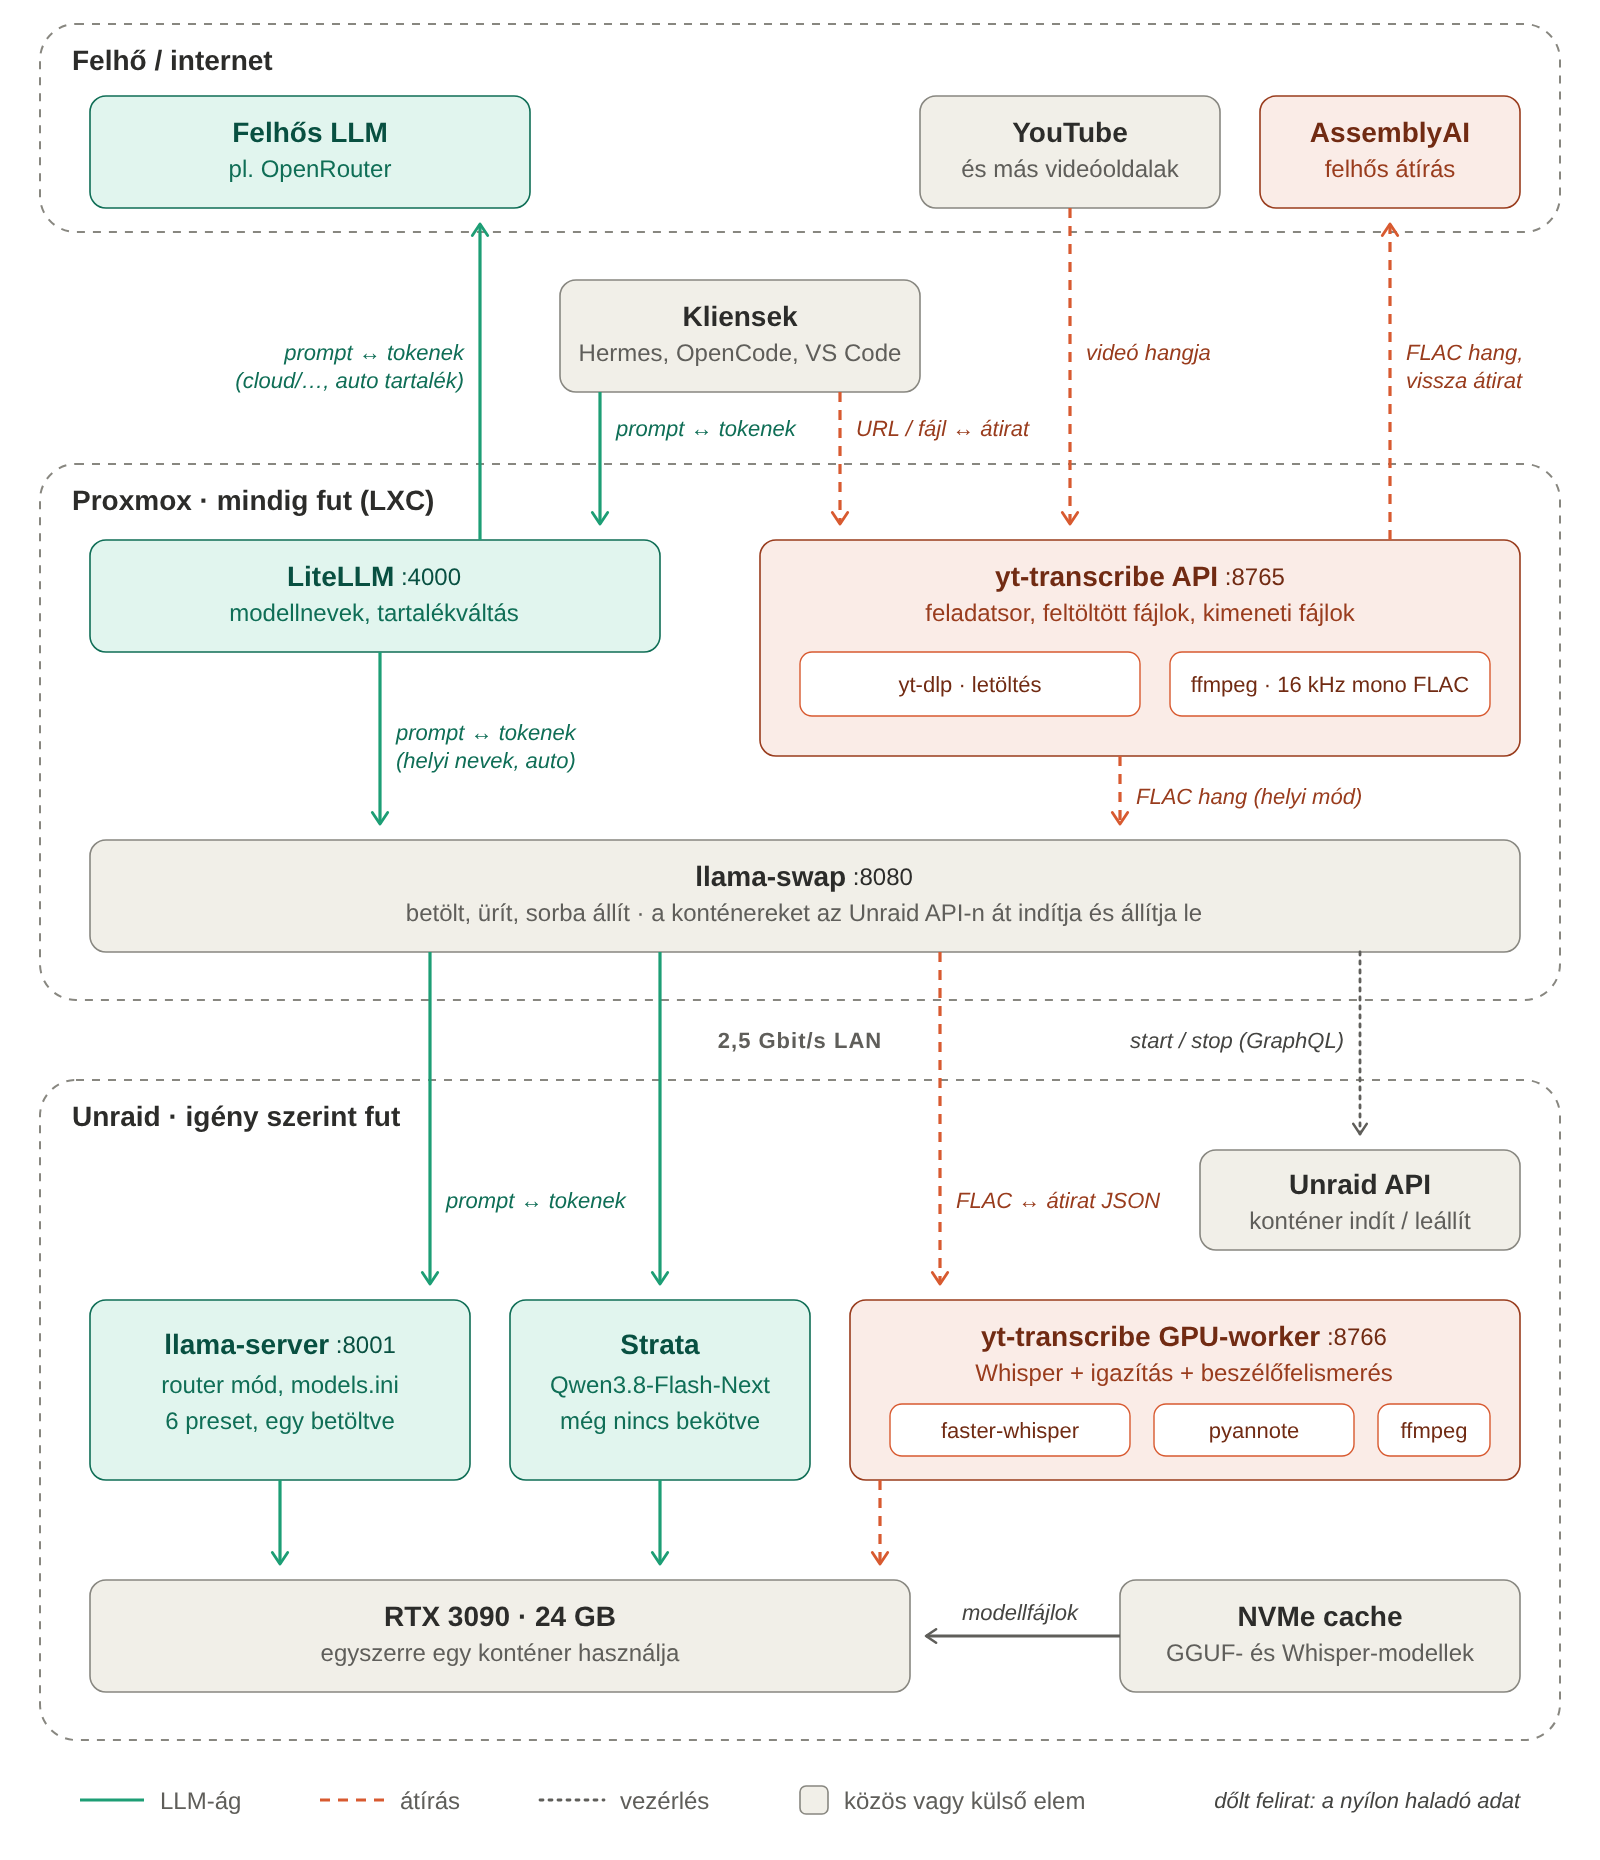
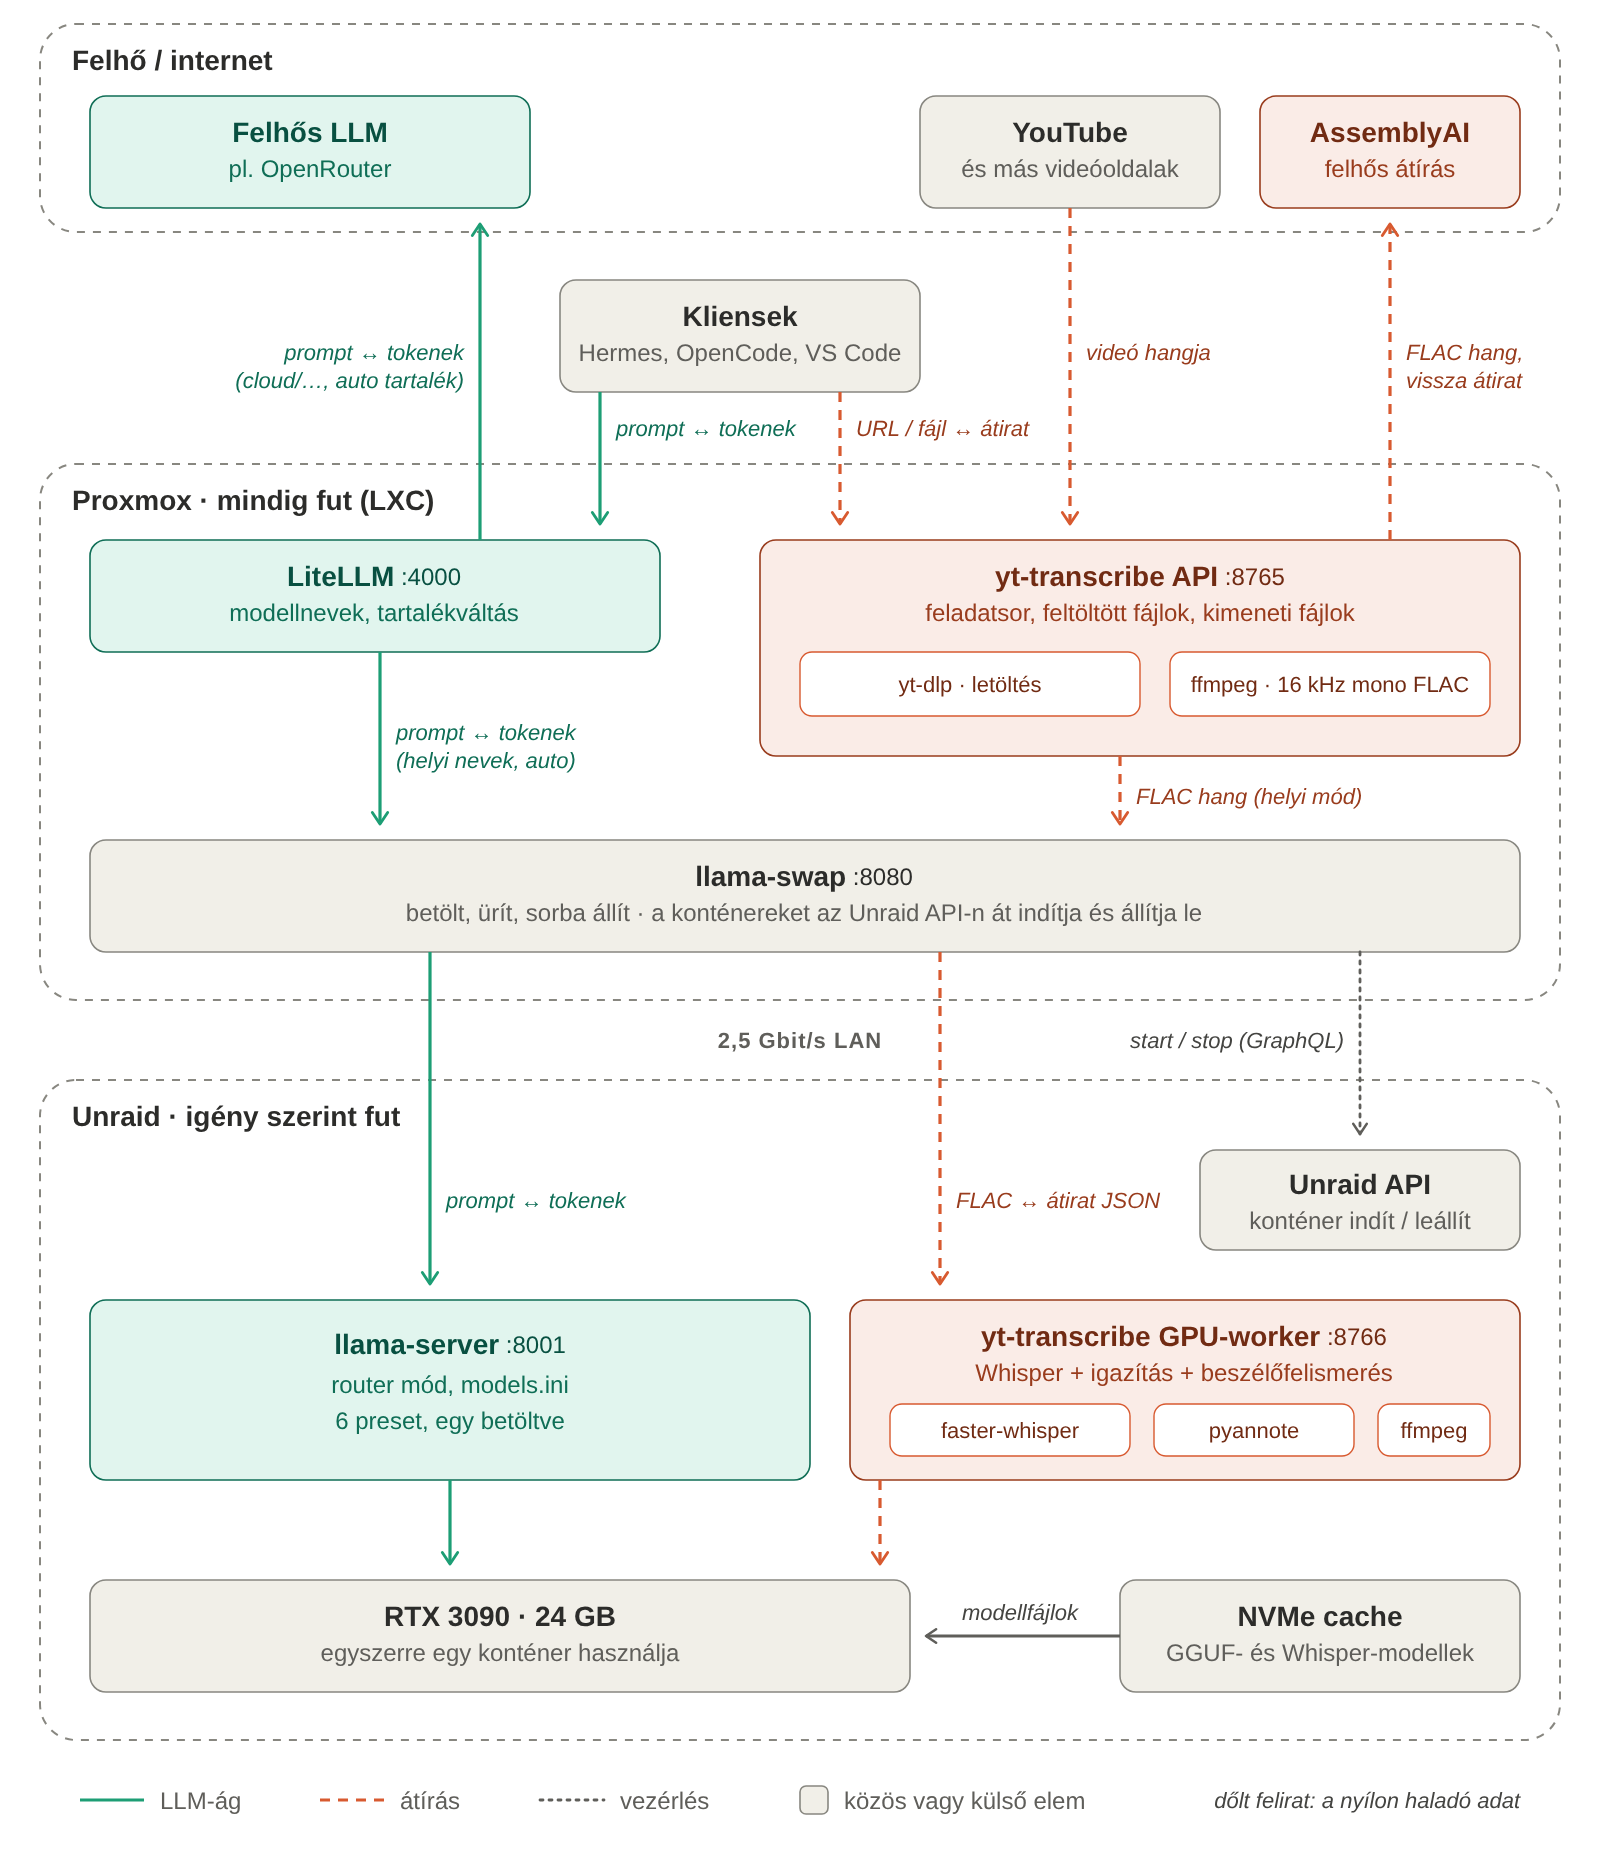
Drop Strata from the architecture; document adding GPU containers
Strata was tried on Unraid and left out: it loads for about 4 minutes on
every start (llama-swap restarts it on each model swap) and scored no
better than Qwen3.6-35B-A3B in the owner's benchmark.

- Diagram: Strata box and arrows removed (SVG and PNG re-rendered).
- architektura.md: component row removed, reasons recorded.
- frissites.md: new section on putting any GPU container under
  llama-swap, including the timeouts that matter for slow starters.
- Config comments and CLAUDE.md no longer mention Strata as planned.

Claude-Session: https://claude.ai/code/session_017pkEDZAixn3ocCLi8rQrXh

Changed region(s): [[0.0938, 0.686, 0.4688, 0.8108], [0.4062, 0.8108, 0.4375, 0.8419], [0.1562, 0.8108, 0.1875, 0.8419]]

diff --git a/docs/architektura.md b/docs/architektura.md
@@ -31,7 +31,6 @@ Kapcsolódó leírások: [telepítés](telepites.md) · [frissítés](frissites.
 | YouTube és más oldalak | Internet | – | A videók forrása; a yt-dlp innen tölti le a hangot. | Külső |
 | Unraid API | Unraid | 80 (`/graphql`) | Konténerek indítása és leállítása, csak Docker-jogú API-kulccsal. | Kész |
 | llama-server | Unraid, `llama.cpp` konténer | 8001 | Hivatalos llama.cpp image router módban. A 6 preset a `models.ini`-ben van, egyszerre egy töltődik be (`--models-max 1`). | Kész |
-| Strata | Unraid, konténer | – | Qwen3.8-Flash-Next. | Még nincs bekötve |
 | yt-transcribe GPU-worker | Unraid, `yt-transcribe-gpu` konténer | 8766 | Átírás (faster-whisper), igazítás (wav2vec2), beszélők (pyannote). Minden feladat külön folyamatban fut, a végén a VRAM felszabadul. | Kész |
 | RTX 3090, NVMe | Unraid | – | A GPU-t egyszerre egy konténer használja. A modellfájlok a helyi NVMe-n vannak, nem a hálózaton. | Meglévő |
 
@@ -140,8 +139,23 @@ A válaszidőt a modellváltás határozza meg (konténerindítás és betölté
   - A Hermes egy terminálhívása legfeljebb 600 másodpercet várhat.
 - **Tartalékváltás ára.** Az `auto` átváltáskor a teljes beszélgetést a felhőbe küldi: ez pénzbe kerül, és az adat kikerül a hálózatból.
 
+## Kipróbált, de kimaradt: Strata
+
+A Strata (Qwen3.8-Flash-Next) telepítve volt az Unraidon, de nem került a llama-swap alá:
+- **Lassú indulás.** Indításkor kb. 3,5–4 percig tölt. A llama-swap minden modellváltáskor újraindítja a konténereket, így minden váltás ennyi várakozást jelentene, az átírás utáni visszaváltás is.
+- **Nem jobb a meglévőknél.** A saját méréseink szerint (tool-eval-bench):
+
+  | Modell | Eredmény | Futási idő |
+  | --- | --- | --- |
+  | Qwen3.8-27B | 96,1% | 16 perc |
+  | Strata | 90,6% | 12 perc |
+  | Qwen3.6-35B-A3B gondolkodás nélkül | 89,8% | 2,4 perc |
+
+  A Qwen3.6-35B-A3B tehát ugyanazt az eredményt adja, és néhány másodperc alatt betölt. Sok rövid kérésnél a Strata lassabb is volt, mint a llama.cpp.
+
+Ha később mégis kellene, ugyanúgy köthető be, mint bármely más GPU-s konténer; a lassú indulás beállításai a [frissítési leírásban](frissites.md#új-gpu-s-konténer-bekötése) vannak.
+
 ## Ami még hátravan
 
-- A Strata bekötése a llama-swap alá. Ehhez kell egy Unraid-konténer, fix porttal és automatikus indítás nélkül, utána ugyanúgy, mint a llama-server.
 - Az OpenCode és a VS Code átállítása a LiteLLM-re. Az OpenCode beállítófájlja kész: `deploy/clients/opencode.json`.
 - A felhős átírás éles próbája AssemblyAI-kulccsal, magyar és angol videóval.

diff --git a/docs/frissites.md b/docs/frissites.md
@@ -72,6 +72,29 @@ Végül a repóban is frissítsd a `deploy/` fájlokat, hogy a következő telep
 
 **Ellenőrzés:** `curl localhost:4000/v1/models -H "Authorization: Bearer $K"` kilistázza az új nevet, és egy kérés rá választ ad.
 
+## Új GPU-s konténer bekötése
+
+Bármilyen új program, ami a GPU-t használja (másik LLM-motor, képgenerátor), ugyanúgy kerül a llama-swap alá, mint a llama-server és a GPU-worker. Ha kimarad, a llama-swap nem tud róla, és két program foglalhatja egyszerre a VRAM-ot.
+
+1. **Unraid:** a konténer kapjon fix portot, és az automatikus indítása legyen kikapcsolva. Legyen egy címe, ami csak akkor ad 200-as választ, ha a program már kész kéréseket fogadni (llama.cpp-nél ez a `/health`).
+2. **`/etc/llama-swap/unraid.env`:** a konténer nevét vedd fel a `GPU_CONTAINERS` listába. Az indítóscript így leállítja, mielőtt mást indít.
+3. **`/etc/llama-swap/config.yaml`:** új bejegyzés a `models:` alá, a meglévők mintájára:
+   ```yaml
+   uj-motor:
+     cmd: /opt/llama-swap/unraid-container.sh run KONTÉNERNÉV
+     cmdStop: /opt/llama-swap/unraid-container.sh stop KONTÉNERNÉV ${PID}
+     proxy: http://192.168.1.20:PORT
+     checkEndpoint: /health
+     aliases: [a kliensek által használt modellnevek]
+   ```
+4. **LiteLLM:** a modellneveket vedd fel a `model_list`-be (lásd az előző pontot), és indítsd újra.
+
+**Lassan induló programnál** (percekig tölt) ezekre figyelj:
+- A llama-swap `healthCheckTimeout` értéke (a `config.yaml` elején, most 180 másodperc) közös minden bejegyzésre. Legyen nagyobb, mint a leglassabb indulás, különben a llama-swap hibának veszi.
+- A LiteLLM a helyi modelleknél 600 másodpercig vár az első tokenre (`stream_timeout`). Ebbe a modellváltás teljes ideje is beleszámít, a futó kérések kivárásával együtt.
+- A kliensnek is ki kell várnia: egy 4 perces indulásnál sok kliens alapértelmezett időkorlátja lejár.
+- Minden modellváltás újra kifizeti az indulási időt, az átírás utáni visszaváltás is. A Strata ezért maradt ki: 3,5–4 percig indult (lásd az [architektúra-leírást](architektura.md#kipróbált-de-kimaradt-strata)).
+
 ## llama-swap (ai-router LXC)
 
 1. Töltsd le az új verziót egy ideiglenes helyre, és ellenőrizd vele a mostani konfigurációt:

diff --git a/CLAUDE.md b/CLAUDE.md
@@ -33,7 +33,7 @@ and the matching `deploy/` file in the same change. Keep the diagram in sync (ed
 
 llama-swap (on the same Proxmox LXC) owns the GPU queue. It starts/stops Unraid containers
 through the Unraid GraphQL API (`deploy/llama-swap/unraid-container.sh`), one at a time:
-the llama.cpp router container, the GPU worker, later Strata. A local job is ONE streamed
+the llama.cpp router container and the GPU worker. A local job is ONE streamed
 HTTP request `POST WORKER_URL/transcribe` (WORKER_URL = `http://127.0.0.1:8080/upstream/yt-transcribe-gpu`).
 While it is open, llama-swap keeps the GPU for the worker and queues LLM requests; the next
 LLM request stops the worker and restarts llama-server. Verified with the real llama-swap
@@ -75,6 +75,8 @@ Consequences — keep them:
   Unraid, started on demand by llama-swap via the Unraid API (no Docker socket).
 - llama.cpp runs as ONE router-mode container with the owner's `models.ini` (6 presets); llama-swap
   has one entry for it with every preset name as an alias (the request's model name passes through).
+- Strata (Qwen3.8-Flash-Next) was tried and dropped: ~4 min load per start (every swap restarts it)
+  and it scored no better than Qwen3.6-35B-A3B in the owner's benchmark. Not in the diagram or configs.
 - LiteLLM stays because of error-based fallback (`auto` → cloud when Unraid is off); llama-swap's
   selectors choose before sending and never retry (checked in v262 source). Without `auto` it could go.
 
@@ -95,7 +97,7 @@ Consequences — keep them:
 - Verified on the real servers (2026-10-09, owner): llama-swap + Unraid API script, LiteLLM incl.
   cloud fallback, Hermes through LiteLLM, the split API/worker in local mode.
 - Not yet verified for real: the whole cloud transcription mode (real AssemblyAI not yet called),
-  uploads, budget; Strata (not connected yet); OpenCode/VS Code through LiteLLM. Treat behaviour of the real
+  uploads, budget; OpenCode/VS Code through LiteLLM. Treat behaviour of the real
   AssemblyAI API (Hungarian accuracy, diarization for Hungarian) as unknown until tested.
 
 ## Tests
